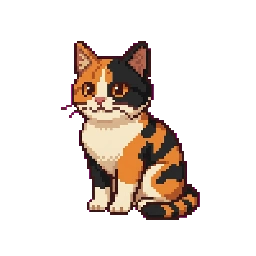
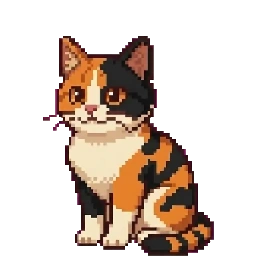
Integrate pet poses and redesigned accessories

Changed region(s): [[0.1562, 0.125, 0.8438, 1.0]]

diff --git a/src/components/PetGame.tsx b/src/components/PetGame.tsx
@@ -3,6 +3,7 @@ import { ArrowRight, BookOpen, Check, Crown, Flame, LockKeyhole, Sparkles, Star,
 import type { Book } from '../types';
 import { effectivePet, PET_ACCESSORIES, PET_BACKGROUNDS, PET_SPECIES, petProgress, SKIN_THRESHOLDS, type PetChallenge, type PetSettings, type PetSpecies } from '../petGame';
 import { PixelPet } from './PixelPet';
+import { headAnchor, PET_POSES, type PetPose } from '../petArt';
 import { PetAccessory } from './PetAccessory';
 import { ProgressBar } from './ui';
 
@@ -11,11 +12,14 @@ const missions = [{ title: 'Una pequeña aventura', target: 10 }, { title: 'Un b
 const milestones = [{ target: 100, icon: '🌱', title: 'Primer brote' }, { target: 300, icon: '🍄', title: 'Explorador del bosque' }, { target: 600, icon: '🔮', title: 'Guardián de historias' }, { target: 1000, icon: '🌙', title: 'Soñador de páginas' }, { target: 1600, icon: '👑', title: 'Leyenda del rincón' }];
 function petName(pet: PetSettings) { return pet.name || PET_SPECIES.find(s => s.id === pet.species)!.label; }
 function PetScene({ pet, className = '' }: { pet: PetSettings; className?: string }) {
+  const pose = pet.pose || 'sentado';
+  const head = headAnchor(pet.species, pet.skin, pose);
+  const accessory = pet.accessory === null ? null : PET_ACCESSORIES[pet.accessory];
   return <div className={`pet-scene relative overflow-hidden ${className}`}>
     <div className="pet-scene-sky" style={{ backgroundImage: `url(${PET_BACKGROUNDS.find(item => item.id === pet.background)?.image || PET_BACKGROUNDS[0].image})` }} />
     <div className="pet-sprite absolute bottom-[8%] left-1/2 w-[40%] max-w-[190px] -translate-x-1/2">
-      <PixelPet species={pet.species} skin={pet.skin} className="w-full drop-shadow-[0_9px_2px_rgba(33,44,32,.3)]" />
-      {pet.accessory !== null && <PetAccessory id={pet.accessory} className="absolute -top-[12%] left-[15%] w-[70%] drop-shadow-md pointer-events-none" />}
+      <PixelPet species={pet.species} skin={pet.skin} pose={pose} className="w-full drop-shadow-[0_9px_2px_rgba(33,44,32,.3)]" />
+      {accessory && <div className="absolute pointer-events-none drop-shadow-md" style={accessory.placement === 'side' ? { width: '28%', bottom: '2%', left: head.x > 50 ? '4%' : '72%' } : { width: `${head.width}%`, left: `${head.x}%`, top: `${head.y}%`, transform: 'translate(-50%, -88%)' }}><PetAccessory id={accessory.id} className="w-full" /></div>}
     </div>
   </div>;
 }
@@ -51,7 +55,7 @@ export function PetGame({ books, pet, challenge, onActivate, onSetPet }: { books
       finally { setActivating(false); }
     }}><p className="text-xs font-extrabold uppercase tracking-widest text-accent">Una nueva aventura</p><h3 className="font-display text-3xl font-semibold mt-2">Elige a tu compañero</h3>
       <p className="text-sm text-ink2 leading-relaxed mt-3">Elige una mascota y ponle nombre para empezar en el nivel 1. Podrás cambiarla después sin perder vuestro progreso. Las lecturas anteriores no cuentan.</p>
-      <div className="grid grid-cols-5 gap-2 mt-5" role="group" aria-label="Elegir primera mascota">{PET_SPECIES.map(item => <button key={item.id} type="button" onClick={() => setChosenSpecies(item.id)} aria-pressed={chosenSpecies === item.id} className={`rounded-xl border p-1 sm:p-2 ${chosenSpecies === item.id ? 'border-accent bg-accent/10 ring-1 ring-accent' : 'border-line bg-sunken/50'}`}><PixelPet species={item.id} skin={0} className="w-full max-w-20 mx-auto" /><span className="block text-[10px] sm:text-xs font-bold truncate">{item.label}</span></button>)}</div>
+      <div className="grid grid-cols-3 sm:grid-cols-6 gap-2 mt-5" role="group" aria-label="Elegir primera mascota">{PET_SPECIES.map(item => <button key={item.id} type="button" onClick={() => setChosenSpecies(item.id)} aria-pressed={chosenSpecies === item.id} className={`rounded-xl border p-1 sm:p-2 ${chosenSpecies === item.id ? 'border-accent bg-accent/10 ring-1 ring-accent' : 'border-line bg-sunken/50'}`}><PixelPet species={item.id} skin={0} className="w-full max-w-20 mx-auto" /><span className="block text-[10px] sm:text-xs font-bold truncate">{item.label}</span></button>)}</div>
       <label htmlFor="first-pet-name" className="block text-sm font-bold mt-5 mb-2">Nombre de tu mascota</label><input id="first-pet-name" required maxLength={24} value={name} onChange={event => setName(event.target.value)} placeholder="¿Cómo se llama?" className="w-full rounded-btn border border-line bg-sunken px-3 py-3 text-sm text-ink" />
       <button type="submit" disabled={activating} className="mt-5 rounded-btn bg-primary text-onprimary px-5 py-3 font-bold disabled:opacity-60">{activating ? 'Preparando…' : 'Empezar nuestra aventura'}</button>
       {activationError && <p role="alert" className="text-danger text-sm mt-3">{activationError}</p>}
@@ -73,14 +77,15 @@ export function PetGame({ books, pet, challenge, onActivate, onSetPet }: { books
         <section className="rounded-card border border-line bg-surface p-5 sm:p-6 shadow-card"><div className="flex items-center gap-2"><Flame className="text-accent" size={19} /><h3 className="font-display text-xl font-semibold">Vuestra aventura</h3></div><div className="mt-4 grid grid-cols-3 gap-2 text-center">{[[number(progress.dayPages),'hoy'], [number(progress.weekPages),'esta semana'], [number(progress.streak),'días de racha']].map(([value,label]) => <div key={label} className="rounded-xl bg-sunken p-2 sm:p-3"><p className="font-display font-bold text-xl text-ink">{value}</p><p className="text-[10px] text-ink3 font-semibold mt-1">{label}</p></div>)}</div><div className="mt-4 pt-4 border-t border-line"><div className="flex justify-between gap-2 text-xs font-bold text-ink2"><span>Reto semanal · 100 páginas</span><span>{number(Math.min(progress.weekPages, 100))}/100</span></div><ProgressBar pct={Math.min(progress.weekPages, 100)} className="h-1.5 mt-2" />{progress.weekPages >= 100 && <p className="text-xs text-accent font-bold mt-2">¡Reto semanal completado!</p>}</div><p className="text-xs text-ink3 mt-4 leading-relaxed">La racha cuenta días consecutivos con páginas registradas, hasta hoy o ayer. No hay penalizaciones si descansáis.</p></section>
       </div>
     </div>
-    <section className="rounded-card border border-line bg-surface p-5 sm:p-6 shadow-card"><div className="flex flex-wrap items-end justify-between gap-2"><div><p className="text-[10px] uppercase tracking-[.16em] text-accent font-extrabold">Elige a tu compañero</p><h3 className="font-display text-2xl font-semibold mt-1">La colección</h3><p className="text-xs text-ink3 mt-1">Cambia de mascota cuando quieras; compartís los mismos avances.</p></div><span className="text-xs font-bold text-ink2">5 mascotas · 30 aspectos</span></div>
-      <div className="mt-5 grid grid-cols-5 gap-1.5 sm:gap-3" role="group" aria-label="Elegir mascota">{PET_SPECIES.map(item => <button key={item.id} type="button" onClick={() => update({ species: item.id, skin: 0 })} aria-pressed={active.species === item.id} className={`rounded-xl border p-1 sm:p-2 transition-colors ${active.species === item.id ? 'border-accent bg-accent/10 ring-1 ring-accent' : 'border-line bg-sunken/50 hover:border-accent'}`}><PixelPet species={item.id} skin={0} className="w-full max-w-[90px] mx-auto" /><span className="block text-[10px] sm:text-xs font-bold text-ink mt-1 truncate">{item.label}</span></button>)}</div>
+    <section className="rounded-card border border-line bg-surface p-5 sm:p-6 shadow-card"><div className="flex flex-wrap items-end justify-between gap-2"><div><p className="text-[10px] uppercase tracking-[.16em] text-accent font-extrabold">Elige a tu compañero</p><h3 className="font-display text-2xl font-semibold mt-1">La colección</h3><p className="text-xs text-ink3 mt-1">Cambia de mascota cuando quieras; compartís los mismos avances.</p></div><span className="text-xs font-bold text-ink2">{PET_SPECIES.length} mascotas · {PET_SPECIES.length * 6} aspectos</span></div>
+      <div className="mt-5 grid grid-cols-3 sm:grid-cols-6 gap-1.5 sm:gap-3" role="group" aria-label="Elegir mascota">{PET_SPECIES.map(item => <button key={item.id} type="button" onClick={() => update({ species: item.id, skin: 0 })} aria-pressed={active.species === item.id} className={`rounded-xl border p-1 sm:p-2 transition-colors ${active.species === item.id ? 'border-accent bg-accent/10 ring-1 ring-accent' : 'border-line bg-sunken/50 hover:border-accent'}`}><PixelPet species={item.id} skin={0} className="w-full max-w-[90px] mx-auto" /><span className="block text-[10px] sm:text-xs font-bold text-ink mt-1 truncate">{item.label}</span></button>)}</div>
+      <div className="mt-5"><h4 className="font-bold text-sm mb-2">Postura</h4><div className="flex flex-wrap gap-2" role="group" aria-label="Elegir postura">{PET_POSES.map((pose: PetPose) => { const labels = active.species === 'dragon' ? ['En reposo', 'Durmiendo', 'Volando', 'Aliento'] : ['Sentado', 'Durmiendo', 'Andando', 'Jugando']; const selected = (active.pose || 'sentado') === pose; return <button key={pose} type="button" onClick={() => update({ pose })} aria-pressed={selected} className={`rounded-full border px-3 py-2 text-xs font-bold ${selected ? 'border-accent bg-accent/10 text-accent' : 'border-line text-ink2'}`}>{labels[PET_POSES.indexOf(pose)]}</button>; })}</div></div>
       <div className="flex flex-wrap items-center justify-between gap-2 mt-6 mb-3"><h4 className="font-bold text-sm">Aspectos de {species.label}</h4><p className="text-xs text-ink3">{nextUnlock ? `Próximo aspecto: ${number(nextUnlock)} páginas` : '¡Todos los aspectos desbloqueados!'}</p></div>
       <div className="grid grid-cols-2 sm:grid-cols-3 lg:grid-cols-6 gap-2">{species.skins.map((label, index) => { const unlocked = progress.total >= SKIN_THRESHOLDS[index]; const selected = active.skin === index; return <button key={label} type="button" disabled={!unlocked} onClick={() => update({ skin: index })} aria-pressed={selected} className={`relative text-center rounded-xl border p-2 ${selected ? 'border-accent bg-accent/10 ring-1 ring-accent' : 'border-line bg-sunken/50'} ${unlocked ? 'hover:border-accent' : 'opacity-60 cursor-not-allowed'}`}><PixelPet species={active.species} skin={index} className="w-16 sm:w-full max-w-24 mx-auto" /><span className="block text-xs font-bold text-ink leading-tight">{label}</span><span className="block text-[10px] text-ink3 mt-1">{unlocked ? selected ? 'Seleccionado' : 'Disponible' : <><LockKeyhole size={10} className="inline" /> {number(SKIN_THRESHOLDS[index])} págs</>}</span></button>; })}</div>
     </section>
     <section className="rounded-card border border-line bg-surface p-5 sm:p-6 shadow-card">
       <div className="flex flex-wrap justify-between items-end gap-3"><div><p className="text-[10px] uppercase tracking-[.16em] text-accent font-extrabold">Vuestro vestidor mágico</p><h3 className="font-display text-2xl font-semibold mt-1">Gorros y efectos</h3><p className="text-xs text-ink3 mt-1">Se desbloquea uno cada dos niveles. Elige cualquiera de los desbloqueados, cámbialo o quítalo cuando quieras; sirve para todas las mascotas.</p></div><button type="button" onClick={() => update({ accessory: null })} aria-pressed={active.accessory === null} className={`rounded-btn border px-3 py-2 text-xs font-bold ${active.accessory === null ? 'border-accent bg-accent/10 text-accent' : 'border-line text-ink2'}`}>Sin añadido</button></div>
-      <div className="grid grid-cols-2 sm:grid-cols-3 lg:grid-cols-5 gap-2 mt-5" role="group" aria-label="Elegir añadido visual">{PET_ACCESSORIES.map(item => {
+      <div className="grid grid-cols-2 sm:grid-cols-3 lg:grid-cols-3 sm:grid-cols-6 gap-2 mt-5" role="group" aria-label="Elegir añadido visual">{PET_ACCESSORIES.map(item => {
         const unlocked = progress.level >= item.level; const selected = active.accessory === item.id;
         return <button key={item.id} type="button" disabled={!unlocked} onClick={() => update({ accessory: item.id })} aria-pressed={selected} className={`rounded-xl border p-2 text-center ${selected ? 'border-accent bg-accent/10 ring-1 ring-accent' : 'border-line bg-sunken/50'} ${unlocked ? 'hover:border-accent' : 'opacity-55 cursor-not-allowed'}`}>
           <PetAccessory id={item.id} className="h-12 w-full" /><span className="block text-xs font-bold leading-tight">{item.name}</span><span className="block text-[10px] text-ink3 mt-1">{unlocked ? selected ? 'Equipado' : 'Disponible' : <> <LockKeyhole size={10} className="inline" /> Nivel {item.level}</>}</span>
@@ -98,6 +103,6 @@ export function PetGame({ books, pet, challenge, onActivate, onSetPet }: { books
         </button>)}
       </div>
     </section>
-    <section className="rounded-card border border-line bg-surface p-5 sm:p-6 shadow-card"><div className="flex gap-3 items-center"><div className="rounded-xl bg-accent/10 p-2.5 text-accent"><Trophy size={20} /></div><div><h3 className="font-display text-2xl font-semibold">Vuestros logros</h3><p className="text-xs text-ink3">Se desbloquean automáticamente con páginas registradas.</p></div></div><div className="grid grid-cols-2 sm:grid-cols-3 lg:grid-cols-5 gap-2 mt-5">{milestones.map(item => { const unlocked = progress.total >= item.target; return <div key={item.target} className={`rounded-xl border border-line bg-sunken/50 p-3 ${unlocked ? '' : 'opacity-50'}`}><span className="text-2xl" aria-hidden>{item.icon}</span><p className="font-bold text-xs mt-2">{item.title}</p><p className="text-[10px] text-ink3 mt-1">{unlocked ? 'Conseguido' : `${number(item.target)} páginas`}</p></div>; })}</div><p className="text-xs text-ink3 mt-4 leading-relaxed"><Crown size={13} className="inline mr-1" />El progreso cuenta las páginas nuevas de tu diario desde la activación, también si se importan con fecha posterior o igual al inicio. Si editas o borras registros, se recalcula. Las fechas futuras o incompletas no cuentan.</p></section>
+    <section className="rounded-card border border-line bg-surface p-5 sm:p-6 shadow-card"><div className="flex gap-3 items-center"><div className="rounded-xl bg-accent/10 p-2.5 text-accent"><Trophy size={20} /></div><div><h3 className="font-display text-2xl font-semibold">Vuestros logros</h3><p className="text-xs text-ink3">Se desbloquean automáticamente con páginas registradas.</p></div></div><div className="grid grid-cols-2 sm:grid-cols-3 lg:grid-cols-3 sm:grid-cols-6 gap-2 mt-5">{milestones.map(item => { const unlocked = progress.total >= item.target; return <div key={item.target} className={`rounded-xl border border-line bg-sunken/50 p-3 ${unlocked ? '' : 'opacity-50'}`}><span className="text-2xl" aria-hidden>{item.icon}</span><p className="font-bold text-xs mt-2">{item.title}</p><p className="text-[10px] text-ink3 mt-1">{unlocked ? 'Conseguido' : `${number(item.target)} páginas`}</p></div>; })}</div><p className="text-xs text-ink3 mt-4 leading-relaxed"><Crown size={13} className="inline mr-1" />El progreso cuenta las páginas nuevas de tu diario desde la activación, también si se importan con fecha posterior o igual al inicio. Si editas o borras registros, se recalcula. Las fechas futuras o incompletas no cuentan.</p></section>
   </div>;
 }

diff --git a/src/components/PetAccessory.tsx b/src/components/PetAccessory.tsx
@@ -1,30 +1,35 @@
 import { PET_ACCESSORIES } from '../petGame';
 
-const COLORS = [
-  ['#e5ab4e', '#ffe2a1', '#79532b'], ['#5da5bd', '#c2eff1', '#305b73'],
-  ['#a984ca', '#ead7f4', '#594374'], ['#6caa78', '#d0edbb', '#3f694c'], ['#c86872', '#ffd2c0', '#803e55'],
-];
-
-/** Los tocados flotan sobre la mascota y los efectos alrededor: no dependen de la forma de su cabeza. */
+/** Iconos de píxel vectoriales, compartidos por el vestidor y la escena. */
 export function PetAccessory({ id, className = '' }: { id: number; className?: string }) {
-  const item = PET_ACCESSORIES[id];
-  if (!item) return null;
-  const [main, light, dark] = COLORS[item.color];
-  return <svg aria-hidden="true" className={className} viewBox="0 0 100 60" shapeRendering="crispEdges">
-    {item.kind === 0 && <><path fill={dark} d="M19 39h62v9H19zM25 20h50v21H25z"/><path fill={main} d="M29 19h42v20H29z"/><path fill={light} d="M32 23h34v4H32z"/><path fill={dark} d="M38 30h24v4H38z"/></>}
-    {item.kind === 1 && <><path fill={dark} d="M22 16h8v8h8v-6h8V8h8v10h8v6h8v-8h8v30H22z"/><path fill={main} d="M27 24h10v8h8V22h10v10h8v-8h10v18H27z"/><path fill={light} d="M31 36h38v4H31zM47 28h6v6h-6z"/></>}
-    {item.kind === 2 && <><path fill={dark} d="M46 3h8v8h7v9h7v11h9v8H23v-8h9V20h7V11h7zM17 39h66v8H17z"/><path fill={main} d="M46 13h8v8h7v10h7v7H32v-7h7V21h7z"/><path fill={light} d="M47 25h6v3h3v5h-3v3h-6v-3h-3v-5h3z"/></>}
-    {item.kind === 3 && <><path fill={dark} d="M27 20h9v-5h29v5h10v19H25v-9h-5v-6h7z"/><path fill={main} d="M30 21h40v14H27v-8h3z"/><path fill={light} d="M37 19h24v4H37zM25 35h50v5H25z"/></>}
-    {item.kind === 4 && <><path fill={dark} d="M20 19h10v4h12v6h16v-6h12v-4h10v23H70v-4H58v-4H42v4H30v4H20z"/><path fill={main} d="M25 24h9v4h8v7h-8v3h-9zm50 0h-9v4h-8v7h8v3h9z"/><path fill={light} d="M44 26h12v10H44z"/></>}
-    {item.kind === 5 && <><path fill={dark} d="M23 19h8v-5h38v5h8v6h-8v5H31v-5h-8z"/><path fill={main} d="M31 18h38v4H31zM27 22h6v4h-6zm40 0h6v4h-6z"/><path fill={light} d="M35 15h30v3H35z"/></>}
-    {item.kind === 6 && <><path fill={main} d="M18 15h6v6h6v6h-6v6h-6v-6h-6v-6h6zm50-3h6v6h6v6h-6v6h-6v-6h-6v-6h6zM45 27h6v6h6v6h-6v6h-6v-6h-6v-6h6z"/><path fill={light} d="M20 21h4v6h-4zm50-3h4v6h-4zm-23 15h4v6h-4z"/></>}
-    {item.kind === 7 && <><path fill={main} d="M16 21h8v5h6v7h-6v5h-8v-5h-5v-7h5zm55-9h8v5h6v7h-6v5h-8v-5h-5v-7h5zM44 30h8v5h6v7h-6v5h-8v-5h-5v-7h5z"/><path fill={light} d="M18 27h5v5h-5zm55-9h5v5h-5zm-27 18h5v5h-5z"/></>}
-    {item.kind === 8 && <><path fill={dark} d="M43 7h18v6H51v7h-4v12h4v7h10v6H43v-5h-8v-6h-5V19h5v-6h8z"/><path fill={main} d="M43 13h9v7h-5v14h5v5h-9v-5h-7V20h7z"/><path fill={light} d="M39 18h5v13h-5z"/></>}
-    {item.kind === 9 && <><path fill={main} d="M20 10h4v9h8v4h-8v9h-4v-9h-8v-4h8zm48 12h4v8h8v4h-8v8h-4v-8h-8v-4h8zM44 9h4v5h5v4h-5v5h-4v-5h-5v-4h5z"/><path fill={light} d="M21 19h2v4h-2zm48 11h2v4h-2z"/></>}
-    {/* Cada variante incorpora una silueta propia, no solo un cambio de color. */}
-    {item.color === 1 && <path fill={light} d="M10 35h4v4h4v4h-4v4h-4v-4H6v-4h4zM86 35h4v4h4v4h-4v4h-4v-4h-4v-4h4z" />}
-    {item.color === 2 && <path fill={light} d="M9 34h3v3h3v3h-3v3H9v-3H6v-3h3zm77-3h4v4h4v4h-4v4h-4v-4h-4v-4h4z" />}
-    {item.color === 3 && <path fill={light} d="M7 34h5v3h3v5h-5v-3H7zm79 0h5v3h3v5h-5v-3h-3z" />}
-    {item.color === 4 && <path fill={light} d="M9 33h3v3h3v5h-3v3H9v-3H6v-5h3zm78 0h3v3h3v5h-3v3h-3v-3h-3v-5h3z" />}
+  const item = PET_ACCESSORIES[id]; if (!item) return null;
+  const { kind, variant } = item;
+  const ink = '#303047', main = variant ? '#7661b1' : '#cf554d', light = variant ? '#dcd3f3' : '#ffe6c5';
+  return <svg aria-hidden="true" className={className} viewBox="0 0 100 80" shapeRendering="crispEdges">
+    {kind === 0 && <><path fill={ink} d="M18 57h65v12H18zM25 48h48V29H58V15H46V9H35v14h-7v17h-3z"/><path fill={variant?'#529b69':'#c83b42'} d="M30 48V27h8V15h8v8h12v13h9v12z"/><path fill="#fff7e6" d="M19 57h62v9H19zM33 7h13v10H33z"/><path fill="#f6cb64" d="M49 38h8v7h-8z"/></>}
+    {kind === 1 && <><path fill={ink} d="M8 59h84v10H8zM20 54h60v6H20zM28 51h44L55 8H44z"/><path fill={variant?'#765584':'#3f4f9c'} d="M35 52l14-36 16 36z"/><path fill="#e3b65e" d="M35 48h30v6H35zM46 31h5v5h5v5h-5v5h-5v-5h-5v-5h5z"/></>}
+    {kind === 2 && <><path fill={ink} d="M8 54h84v8H8zM20 48h60v8H20zM27 24h13v7h20v-7h13v27H27z"/><path fill={variant?'#c58b4f':'#90603c'} d="M31 29h8v6h22v-6h8v19H31z"/><path fill="#eed39d" d="M29 43h42v5H29zM46 42h9v7h-9z"/></>}
+    {kind === 3 && <><path fill={ink} d="M29 28h42v6h8v29h-8v7H29v-7h-8V34h8zM46 17h9v12h-9z"/><path fill="#e68b39" d="M29 34h42v29H29z"/><path fill="#f9b44d" d="M39 33h8v31h-8zm15 0h8v31h-8z"/><path fill="#527b42" d="M46 18h8v12h-8zM52 18h13v6H52z"/><path fill={ink} d="M33 42h6v6h-6zm28 0h6v6h-6zM39 55h22v4H39z"/></>}
+    {kind === 4 && <><path fill="#4c7e48" d="M47 43h6v25h-6zM35 36h12v6H35zM53 30h12v6H53z"/><path fill="#72b56a" d="M25 28h11v7h11v8H34v-6h-9zm29 0h9v-7h12v9h-6v7H54z"/>{!!variant && <><path fill="#f2b3c9" d="M43 10h14v6h7v12h-7v7H43v-7h-7V16h7z"/><path fill="#e8b954" d="M46 19h8v8h-8z"/></>}</>}
+    {kind === 5 && <><path fill={ink} d="M23 24h10v-6h13v7h8v-7h13v6h10v20H70v8h-8v8H38v-8h-8v-8h-7z"/><path fill={variant?'#ed8caf':'#e95466'} d="M28 25h13v7h18v-7h13v17h-8v8h-8v6H44v-6h-8v-8h-8z"/><path fill="#ffd5dd" d="M33 28h7v7h-7z"/></>}
+    {kind === 6 && <><path fill={ink} d="M19 23h9v8h10V20h9v10h7V20h9v11h10v-8h9v42H19z"/><path fill="#eabb4b" d="M24 34h18v-8h4v11h9V26h4v8h18v25H24z"/><path fill={variant?'#eea7ba':'#f7df8b'} d="M30 46h6v6h-6zm17 0h6v6h-6zm17 0h6v6h-6z"/></>}
+    {kind === 7 && <><path fill={ink} d="M45 8h10l26 54H19zM14 60h72v8H14z"/><path fill={variant?'#e79a66':'#72a8c7'} d="M49 18l23 42H28z"/><path fill="#f7d877" d="M39 40h7v7h-7zm17-9h7v7h-7zm1 21h7v7h-7zM46 6h8v9h-8z"/></>}
+    {kind === 8 && <><path fill={ink} d="M16 25h68v26H73v11H27V51H16z"/><path fill={variant?'#f3eee2':'#555666'} d="M21 30h58v17H68v10H32V47H21z"/><path fill={variant?'#54769b':'#e7e2cf'} d="M44 34h12v12H44zM39 48h22v4H39z"/></>}
+    {kind === 9 && <><path fill={ink} d="M20 52h60v14H20zM22 46H12V25h10V17h16v-7h24v7h16v8h10v21H78v6z"/><path fill="#faf1d9" d="M18 26h11v-7h16v-6h11v6h16v7h10v17H18zM25 51h50v10H25z"/><path fill={main} d="M27 49h46v5H27z"/></>}
+    {kind === 10 && <><path fill={ink} d="M17 43h8V29h10v-6h28v-5h10v5h8v20h-6v18H25V49h-8z"/><path fill={main} d="M23 36h8v-7h36v-5h6v6h5v13H23zM30 43h40v12H30z"/><path fill={light} d="M31 46h37v4H31z"/></>}
+    {kind === 11 && <><path fill={ink} d="M22 50h56v15H22zM26 36h7V25h8v-6h18v6h8v11h7v14H26z"/><path fill={variant?'#78a8c9':'#bd6273'} d="M31 38h7V28h24v10h7v12H31z"/><path fill={light} d="M22 52h56v10H22zM45 13h10v10H45z"/></>}
+    {kind === 12 && <><path fill={ink} d="M21 27h8V17h42v10h8v38H21z"/><path fill={variant?'#a18b6f':'#9da9b5'} d="M27 28h7v-7h32v7h7v31H27z"/><path fill={ink} d="M30 40h40v7H30zM44 48h12v11H44z"/><path fill="#eff3e5" d="M34 31h32v4H34z"/></>}
+    {kind === 13 && <><path fill={ink} d="M24 62V23h8v-7h8v23h20V16h8v7h8v39h-8V49H32v13z"/><path fill={main} d="M28 23h8v20h28V23h8v35h-6V45H34v13h-6z"/><path fill={light} d="M31 27h5v12h-5zm34 0h5v12h-5z"/></>}
+    {kind === 14 && <><path fill="#85633f" d="M17 31h8v-6h50v6h8v12h-8v6H25v-6h-8z"/><path fill={variant?'#d2d9f6':'#f9db74'} d="M25 29h50v5H25zM21 34h7v7h-7zm51 0h7v7h-7zM27 41h46v5H27z"/></>}
+    {kind === 15 && <><path fill="#d49646" d="M46 11h8v17h13v8h-9v13h-8v14h-8V49h-9V36h-9v-8h22z"/><path fill="#ffe68a" d="M47 21h6v14h9v5h-9v13h-6V40h-9v-5h9z"/>{!!variant && <path fill="#f5d977" d="M17 18h6v6h-6zm58 27h7v7h-7z"/>}</>}
+    {kind === 16 && <><path fill="#e6b456" d="M39 11h22v8H48v9h-7v21h7v8h16v8H39v-7H27v-9h-6V27h6v-9h12z"/><path fill="#ffe7a4" d="M39 18h9v10h-7v21h7v8h-9v-7h-7V27h7z"/>{!!variant && <circle cx="51" cy="39" r="13" fill="#f5b64b"/>}</>}
+    {kind === 17 && <><path fill="#98b4c5" d="M17 38h12v-9h10V19h22v8h11v10h11v18H17z"/><path fill="#f2f6f4" d="M22 38h11v-9h12v-7h14v9h11v8h9v11H22z"/>{!!variant && <path stroke="#68a8d4" strokeWidth="5" d="M30 58v9m20-9v9m20-9v9"/>}</>}
+    {kind === 18 && <><path fill={ink} d="M24 38h8V27h10v-7h16v7h10v11h8v12H59v16H41V50H24z"/><path fill={variant?'#b79a71':'#c75b58'} d="M29 39h8V29h26v10h8v8H29z"/><path fill="#f4e5ca" d="M45 50h10v12H45zM36 35h7v6h-7zm21 0h7v6h-7z"/></>}
+    {kind === 19 && <><path fill={ink} d="M28 23h8v-7h28v7h8v43h-8v-6h-7v6H43v-6h-7v6h-8z"/><path fill={variant?'#d6ddf0':'#fff9e9'} d="M33 26h7v-6h20v6h7v32h-6v-5h-8v7h-7v-7h-8v5h-5z"/><path fill="#444459" d="M39 34h5v7h-5zm17 0h5v7h-5zM46 46h8v4h-8z"/></>}
+    {kind === 20 && <><path fill={variant?'#e9ad45':'#b984ca'} d="M43 29H31v-9H20v17h8v10H20v13h12v-8h11v-7h14v7h11v8h12V47h-8V37h8V20H69v9H57z"/><path fill="#4c414d" d="M45 30h10v26H45z"/><path fill="#f9dfb9" d="M25 27h8v6h-8zm42 0h8v6h-8z"/></>}
+    {kind === 21 && <><path fill={ink} d="M17 25h12v5h13v7h16v-7h13v-5h12v36H71v-6H58v-6H42v6H29v6H17z"/><path fill={main} d="M22 30h10v5h10v15H32v5H22zm56 0H68v5H58v15h10v5h10z"/><path fill={light} d="M44 35h12v14H44z"/></>}
+    {kind === 22 && <><path fill="#527e43" d="M47 47h6v22h-6z"/><path fill={variant?'#68ad61':'#d28242'} d="M47 46H35v-7h-9V27h9v-8h12v8h6v-8h12v8h9v12h-9v7H53z"/><path fill="#c9db8b" d="M47 32h6v15h-6z"/></>}
+    {kind === 23 && <><path fill="#9c7040" d="M39 19h22v7h7v27h7v7H25v-7h7V26h7zM45 62h10v7H45z"/><path fill={variant?'#d5eafa':'#f5ca61'} d="M39 27h22v27H39z"/><path fill="#fff1bd" d="M42 30h6v16h-6z"/></>}
+    {kind === 24 && <><path fill="#4e567e" d="M38 14h24l15 24-27 30-27-30z"/><path fill={variant?'#a6e1e9':'#aa94df'} d="M41 19h18l12 19-21 24-21-24z"/><path fill="#f1effe" d="M43 24h6v11h-6zm12 15h5v10h-5z"/></>}
   </svg>;
 }

diff --git a/src/petGame.ts b/src/petGame.ts
@@ -1,7 +1,7 @@
 import type { Book } from './types';
 import { dateKey } from './readingCalendar.ts';
 
-export type PetSpecies = 'cat' | 'dragon' | 'monkey' | 'chicken' | 'trex';
+export type PetSpecies = 'cat' | 'munchkin' | 'dragon' | 'monkey' | 'chicken' | 'trex';
 export const PET_BACKGROUNDS = [
   { id: 'garden', label: 'Bosque mágico', image: '/pet-garden.webp' },
   { id: 'ocean', label: 'Costa tranquila', image: '/pet-bg-ocean.webp' },
@@ -15,23 +15,42 @@ export const PET_BACKGROUNDS = [
   { id: 'autumn', label: 'Bosque de otoño', image: '/pet-bg-autumn.webp' },
 ] as const;
 export type PetBackground = typeof PET_BACKGROUNDS[number]['id'];
-export interface PetSettings { species: PetSpecies; skin: number; name: string; background: PetBackground; accessory: number | null }
+export interface PetSettings { pose?: 'sentado' | 'durmiendo' | 'andando' | 'jugando'; species: PetSpecies; skin: number; name: string; background: PetBackground; accessory: number | null }
 export const PET_SPECIES: { id: PetSpecies; label: string; skins: string[] }[] = [
-  { id: 'cat', label: 'Gato', skins: ['Europeo atigrado', 'Siamés', 'Bombay', 'Británico tricolor', 'Azul ruso', 'Maine coon'] },
-  { id: 'dragon', label: 'Dragón', skins: ['Bosque', 'Rubí', 'Océano', 'Amatista', 'Sol', 'Escarcha'] },
+  { id: 'cat', label: 'Gato', skins: ['Europeo atigrado', 'Siamés', 'Bombay', 'Británico tricolor', 'British shorthair gris', 'Maine coon'] },
+  { id: 'munchkin', label: 'Munchkin', skins: ['Atigrado', 'Siamés', 'Gris', 'Tricolor', 'Blanco', 'Blanco y negro'] },
+  { id: 'dragon', label: 'Dragón', skins: ['Verde', 'Rojo', 'Acuático', 'Constelación', 'Dorado', 'Nube'] },
   { id: 'monkey', label: 'Mono', skins: ['Cacao', 'Dorado', 'Nieve', 'Selva', 'Canela', 'Medianoche'] },
   { id: 'chicken', label: 'Pollo', skins: ['Pollito', 'En el huevo', 'Canela', 'Cascarón', 'Lavanda', 'Noche'] },
   { id: 'trex', label: 'T. rex', skins: ['Jurásico', 'Volcán', 'Laguna', 'Ciruela', 'Desierto', 'Fósil'] },
 ];
 export const SKIN_THRESHOLDS = [0, 100, 300, 600, 1000, 1600];
-export const ACCESSORY_TYPES = ['Gorro aventurero', 'Corona', 'Sombrero mágico', 'Boina', 'Lazo', 'Halo', 'Estrellas', 'Pétalos', 'Luna', 'Chispas'] as const;
-export const ACCESSORY_COLORS = ['ámbar', 'océano', 'lavanda', 'bosque', 'rubí'] as const;
-export const PET_ACCESSORIES = Array.from({ length: 50 }, (_, id) => ({ id, kind: id % 10, color: Math.floor(id / 10), name: `${ACCESSORY_TYPES[id % 10]} ${ACCESSORY_COLORS[Math.floor(id / 10)]}`, level: (id + 1) * 2 }));
+// Dos diseños de cada familia, todos con nombre propio y desbloqueo cada dos niveles.
+const ACCESSORY_NAMES = [
+  ['Gorro de Navidad', 'Gorro de duende'], ['Sombrero de mago', 'Sombrero de bruja'],
+  ['Sombrero cowboy', 'Sombrero del desierto'], ['Calabaza sonriente', 'Calabaza luminosa'],
+  ['Brote de primavera', 'Flor silvestre'], ['Corazón', 'Corazón brillante'],
+  ['Corona real', 'Corona de flores'], ['Gorro de fiesta', 'Gorro de cumpleaños'],
+  ['Sombrero pirata', 'Sombrero marinero'], ['Gorro de cocinero', 'Gorro de pastelero'],
+  ['Boina francesa', 'Boina de artista'], ['Gorro de invierno', 'Gorro de nieve'],
+  ['Casco de caballero', 'Casco de aventurero'], ['Diadema de orejas', 'Cuernos de fiesta'],
+  ['Aureola dorada', 'Aureola lunar'], ['Estrella fugaz', 'Constelación'],
+  ['Luna creciente', 'Sol radiante'], ['Nube pequeña', 'Nube de lluvia'],
+  ['Seta roja', 'Seta del bosque'], ['Fantasmita', 'Fantasma amable'],
+  ['Mariposa', 'Abejita'], ['Lazo de seda', 'Lazo de lunares'],
+  ['Hoja otoñal', 'Hoja de trébol'], ['Campanita', 'Copo de nieve'],
+  ['Cristal mágico', 'Diamante brillante'],
+] as const;
+export const PET_ACCESSORIES = Array.from({ length: 50 }, (_, id) => {
+  const kind = Math.floor(id / 2), variant = id % 2;
+  return { id, kind, variant, name: ACCESSORY_NAMES[kind][variant], level: (id + 1) * 2, placement: ([3, 19].includes(kind) ? 'side' : 'head') as 'side' | 'head' };
+});
 export const DEFAULT_PET: PetSettings = { species: 'cat', skin: 0, name: '', background: 'garden', accessory: null };
 export function normalizePet(value: unknown): PetSettings {
   const data = value && typeof value === 'object' && !Array.isArray(value) ? value as Record<string, unknown> : {};
   const species = PET_SPECIES.some(pet => pet.id === data.species) ? data.species as PetSpecies : 'cat';
-  return { species, skin: Number.isInteger(data.skin) && Number(data.skin) >= 0 && Number(data.skin) < 6 ? Number(data.skin) : 0, name: typeof data.name === 'string' ? data.name.trim().slice(0, 24) : '', background: PET_BACKGROUNDS.some(item => item.id === data.background) ? data.background as PetBackground : 'garden', accessory: Number.isInteger(data.accessory) && Number(data.accessory) >= 0 && Number(data.accessory) < 50 ? Number(data.accessory) : null };
+  const pose = ['sentado', 'durmiendo', 'andando', 'jugando'].includes(String(data.pose)) ? data.pose as PetSettings['pose'] : undefined;
+  return { ...(pose ? { pose } : {}), species, skin: Number.isInteger(data.skin) && Number(data.skin) >= 0 && Number(data.skin) < 6 ? Number(data.skin) : 0, name: typeof data.name === 'string' ? data.name.trim().slice(0, 24) : '', background: PET_BACKGROUNDS.some(item => item.id === data.background) ? data.background as PetBackground : 'garden', accessory: Number.isInteger(data.accessory) && Number(data.accessory) >= 0 && Number(data.accessory) < 50 ? Number(data.accessory) : null };
 }
 export interface PetChallenge { startDate: string; excluded: string[] }
 export function normalizePetChallenge(value: unknown): PetChallenge | null {

diff --git a/src/petArt.ts b/src/petArt.ts
@@ -1,0 +1,44 @@
+import type { PetSpecies } from './petGame';
+
+export const PET_POSES = ['sentado', 'durmiendo', 'andando', 'jugando'] as const;
+export type PetPose = typeof PET_POSES[number];
+export type HeadAnchor = { x: number; y: number; width: number };
+// Posiciones medidas sobre cada imagen de 256 × 256; el orden es sentado, durmiendo, andando y jugando.
+type AnchorRow = readonly [HeadAnchor, HeadAnchor, HeadAnchor, HeadAnchor];
+const h = (x: number, y: number, width = 32): HeadAnchor => ({ x, y, width });
+export const PET_HEAD_ANCHORS: Record<PetSpecies, readonly AnchorRow[]> = {
+  cat: [
+    [h(47,17),h(29,44),h(23,43),h(31,57)], [h(43,18),h(28,48),h(20,45),h(29,56)],
+    [h(43,16),h(29,46),h(20,48),h(30,53)], [h(40,17),h(27,47),h(23,45),h(28,55)],
+    [h(42,18),h(28,48),h(23,45),h(31,57)], [h(47,16),h(28,48),h(23,43),h(31,54)],
+  ],
+  munchkin: [
+    [h(48,17),h(28,45),h(75,49),h(29,55)], [h(72,26),h(28,49),h(20,43),h(28,56)],
+    [h(26,35),h(27,48),h(23,43),h(30,55)], [h(28,23),h(27,48),h(26,44),h(29,56)],
+    [h(27,20),h(27,47),h(23,45),h(24,53)], [h(26,35),h(27,48),h(22,46),h(27,55)],
+  ],
+  monkey: [
+    [h(36,17),h(28,53),h(34,17),h(48,30)], [h(32,27),h(29,52),h(25,52),h(47,33)],
+    [h(48,24),h(48,29),h(45,20),h(48,32)], [h(34,24),h(27,57),h(32,25),h(48,32)],
+    [h(35,22),h(27,60),h(74,42),h(48,32)], [h(36,24),h(27,57),h(38,23),h(48,33)],
+  ],
+  chicken: [
+    [h(48,18),h(48,18),h(43,19),h(48,18)], [h(48,22),h(48,24),h(48,22),h(48,22)],
+    [h(48,19),h(48,19),h(48,20),h(48,19)], [h(48,18),h(48,18),h(48,18),h(48,18)],
+    [h(48,18),h(48,18),h(46,18),h(48,18)], [h(48,18),h(48,18),h(46,18),h(48,18)],
+  ],
+  dragon: [
+    [h(70,19),h(48,52),h(72,50),h(63,30)], [h(70,20),h(72,62),h(76,52),h(68,25)],
+    [h(64,29),h(22,63),h(70,49),h(68,22)], [h(72,21),h(68,51),h(75,50),h(72,25)],
+    [h(67,25),h(61,35),h(72,54),h(68,26)], [h(82,77),h(53,42),h(20,76),h(69,27)],
+  ],
+  trex: [
+    [h(34,16),h(33,22),h(33,18),h(34,18)], [h(35,18),h(77,60),h(31,25),h(36,18)],
+    [h(32,18),h(25,62),h(30,19),h(30,18)], [h(32,18),h(24,62),h(31,31),h(32,25)],
+    [h(33,29),h(24,62),h(32,30),h(39,24)], [h(31,17),h(23,62),h(31,19),h(31,18)],
+  ],
+};
+export function headAnchor(species: PetSpecies, skin: number, pose: PetPose): HeadAnchor {
+  const rows = PET_HEAD_ANCHORS[species];
+  return (rows[skin] || rows[0])[Math.max(0, PET_POSES.indexOf(pose))];
+}

diff --git a/src/components/PixelPet.tsx b/src/components/PixelPet.tsx
@@ -1,8 +1,10 @@
 import { PET_SPECIES, type PetSpecies } from '../petGame';
+import { PET_POSES, type PetPose } from '../petArt';
 
-/** Ilustraciones locales con fondo transparente, seis diseños por especie. */
-export function PixelPet({ species, skin, className = '' }: { species: PetSpecies; skin: number; className?: string }) {
+/** Ilustraciones locales de las seis especies; la pose se valida antes de construir la ruta. */
+export function PixelPet({ species, skin, pose, className = '' }: { species: PetSpecies; skin: number; pose?: PetPose; className?: string }) {
   const item = PET_SPECIES.find(pet => pet.id === species) || PET_SPECIES[0];
   const index = Number.isInteger(skin) && skin >= 0 && skin < item.skins.length ? skin : 0;
-  return <img src={`/pets/${item.id}-${index}.webp`} alt={`${item.label} pixel art · ${item.skins[index]}`} className={className} style={{ imageRendering: 'pixelated' }} />;
+  const src = pose && PET_POSES.includes(pose) ? `/pets/poses/${item.id}/${index}/${pose}.webp` : `/pets/${item.id}-${index}.webp`;
+  return <img src={src} alt={`${item.label} pixel art · ${item.skins[index]}${pose ? ` · ${pose}` : ''}`} className={className} style={{ imageRendering: 'pixelated' }} />;
 }

diff --git a/server/index.js b/server/index.js
@@ -611,11 +611,12 @@ async function migrateBookCovers() {
 let dbLoadFailed = false;
 let legacyDatabaseLoaded = false;
 
-const PET_SPECIES = ['cat', 'dragon', 'monkey', 'chicken', 'trex'];
+const PET_SPECIES = ['cat', 'munchkin', 'dragon', 'monkey', 'chicken', 'trex'];
 const PET_BACKGROUNDS = ['garden', 'ocean', 'library', 'snow', 'space', 'jungle', 'desert', 'castle', 'cherry', 'autumn'];
 function cleanPet(value) {
   const pet = value && typeof value === 'object' && !Array.isArray(value) ? value : {};
   return {
+    ...(['sentado', 'durmiendo', 'andando', 'jugando'].includes(pet.pose) ? { pose: pet.pose } : {}),
     species: PET_SPECIES.includes(pet.species) ? pet.species : 'cat',
     skin: Number.isInteger(pet.skin) && pet.skin >= 0 && pet.skin < 6 ? pet.skin : 0,
     name: typeof pet.name === 'string' ? pet.name.trim().slice(0, 24) : '',
